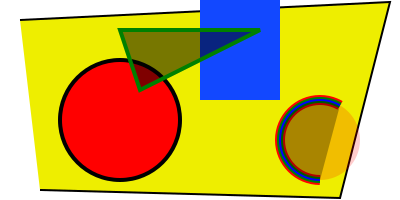
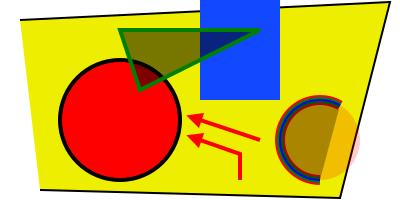
Add marker SVG element, add to example 1

Changed region(s): [[0.45, 0.66, 0.63, 0.9], [0.45, 0.57, 0.66, 0.72]]

diff --git a/drawSvg/defs.py b/drawSvg/defs.py
@@ -74,3 +74,23 @@ class FilterItem(DrawingDefSub):
     def __init__(self, tag_name, **args):
         super().__init__(**args)
         self.TAG_NAME = tag_name
+
+class Marker(DrawingDef):
+    ''' A small drawing that can be placed at the ends of (or along) a path.
+
+        This can be used for arrow heads or points on a graph for example.
+
+        By default, units are multiples of stroke width.'''
+    TAG_NAME = 'marker'
+    def __init__(self, minx, miny, maxx, maxy, scale=1, orient='auto',
+                 **kwargs):
+        width = maxx - minx
+        height = maxy - miny
+        kwargs = {
+            'markerWidth': width if scale == 1 else float(width) * scale,
+            'markerHeight': height if scale == 1 else float(height) * scale,
+            'viewBox': '{} {} {} {}'.format(minx, -maxy, width, height),
+            'orient': orient,
+            **kwargs,
+        }
+        super().__init__(**kwargs)

diff --git a/README.md b/README.md
@@ -38,8 +38,9 @@ $ brew install cairo
 ```python
 import drawSvg as draw
 
-d = draw.Drawing(200, 100, origin='center')
+d = draw.Drawing(200, 100, origin='center', displayInline=False)
 
+# Draw an irregular polygon
 d.append(draw.Lines(-80, -45,
                     70, -49,
                     95, 49,
@@ -48,10 +49,14 @@ d.append(draw.Lines(-80, -45,
             fill='#eeee00',
             stroke='black'))
 
+# Draw a rectangle
 d.append(draw.Rectangle(0,0,40,50, fill='#1248ff'))
+
+# Draw a circle
 d.append(draw.Circle(-40, -10, 30,
             fill='red', stroke_width=2, stroke='black'))
 
+# Draw an arbitrary path (a triangle in this case)
 p = draw.Path(stroke_width=2, stroke='green',
               fill='black', fill_opacity=0.5)
 p.M(-30,5)  # Start path at point (-30, 5)
@@ -60,12 +65,26 @@ p.h(-70)    # Draw horizontal line to x=-70
 p.Z()       # Draw line to start
 d.append(p)
 
+# Draw multiple circular arcs
 d.append(draw.ArcLine(60,-20,20,60,270,
             stroke='red', stroke_width=5, fill='red', fill_opacity=0.2))
 d.append(draw.Arc(60,-20,20,60,270,cw=False,
             stroke='green', stroke_width=3, fill='none'))
 d.append(draw.Arc(60,-20,20,270,60,cw=True,
             stroke='blue', stroke_width=1, fill='black', fill_opacity=0.3))
+
+# Draw arrows
+arrow = draw.Marker(-0.1, -0.5, 0.9, 0.5, scale=4, orient='auto')
+arrow.append(draw.Lines(-0.1, -0.5, -0.1, 0.5, 0.9, 0, fill='red', close=True))
+p = draw.Path(stroke='red', stroke_width=2, fill='none',
+              marker_end=arrow)  # Add an arrow to the end of a path
+p.M(20, -40)
+p.L(20, -27)
+p.L(0, -20)
+d.append(p)
+d.append(draw.Line(30, -20, 0, -10,
+            stroke='red', stroke_width=2, fill='none',
+            marker_end=arrow))  # Add an arrow to the end of a line
 
 d.setPixelScale(2)  # Set number of pixels per geometry unit
 #d.setRenderSize(400,200)  # Alternative to setPixelScale
